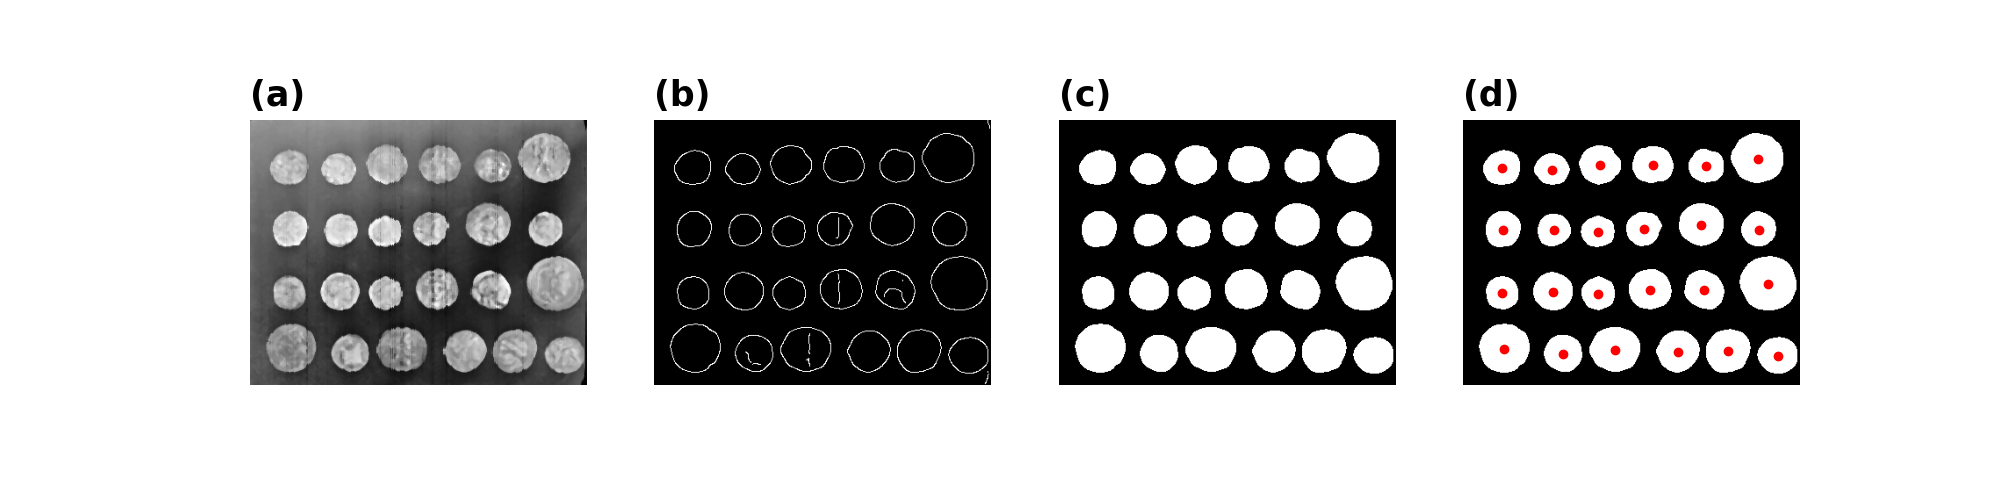
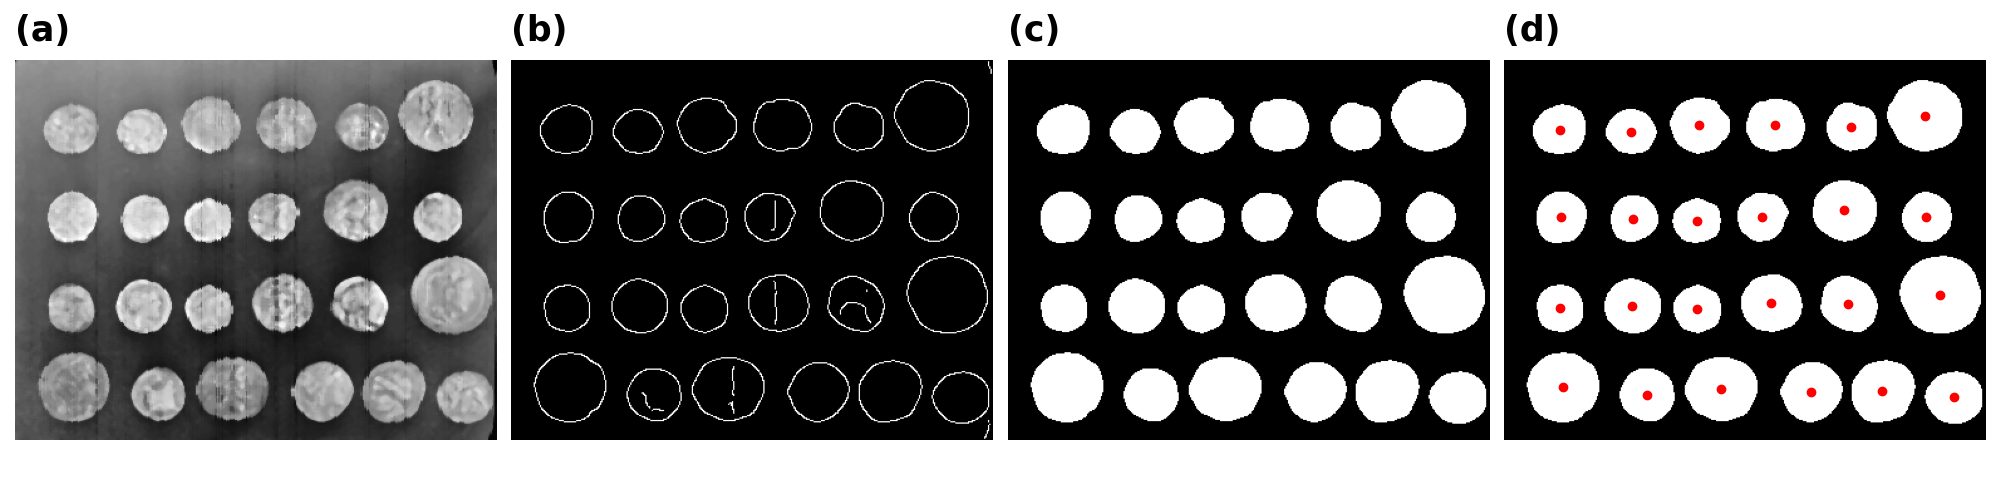
Cleaned up segmentation scripts

diff --git a/scripts/coins_segmentation.py b/scripts/coins_segmentation.py
@@ -73,6 +73,7 @@ axes[3].text(0, 1.05, '(d)', fontsize=25, transform=axes[3].transAxes, fontweigh
 for ax in axes:
     ax.axis('off')
 
+plt.tight_layout()
 fig.savefig(join(args.output_dir, 'coins_steps.png'))
 
 # Assume grid is 4x6
@@ -102,15 +103,10 @@ for region in regions:
         for coordinates in region.coords:
             mask[coordinates[0], coordinates[1]] = 0
 
-fig, axes = plt.subplots(1, 2, figsize=(10, 5))
+fig, ax = plt.subplots(1, 1, figsize=(5, 5))
 
-axes[0].imshow(orig_image, cmap='gray')
-axes[0].text(0, 1.05, '(a)', fontsize=20, transform=axes[0].transAxes, fontweight="bold")
+plot_image_mask_overlay(orig_image, mask, ax, dim_factor=0.3, cmap='gray', border_color='yellow')
+ax.axis('off')
 
-plot_image_mask_overlay(orig_image, mask, axes[1], dim_factor=0.3, cmap='gray', border_color='yellow')
-axes[1].text(0, 1.05, '(b)', fontsize=20, transform=axes[1].transAxes, fontweight="bold")
-
-for ax in axes:
-    ax.axis('off')
-
+plt.tight_layout()
 fig.savefig(join(args.output_dir, 'coins_segmentation.png'))

diff --git a/scripts/flower_segmentation.py b/scripts/flower_segmentation.py
@@ -102,6 +102,7 @@ cf_mask = morphology.remove_small_holes(cf_mask, 100)
 selem = morphology.disk(2)
 cf_mask = morphology.binary_opening(cf_mask, selem)
 
+plt.tight_layout()
 fig.savefig(join(args.output_dir, 'flower_steps.png'))
 
 fig, axes = plt.subplots(1, 2, figsize=(10, 5))
